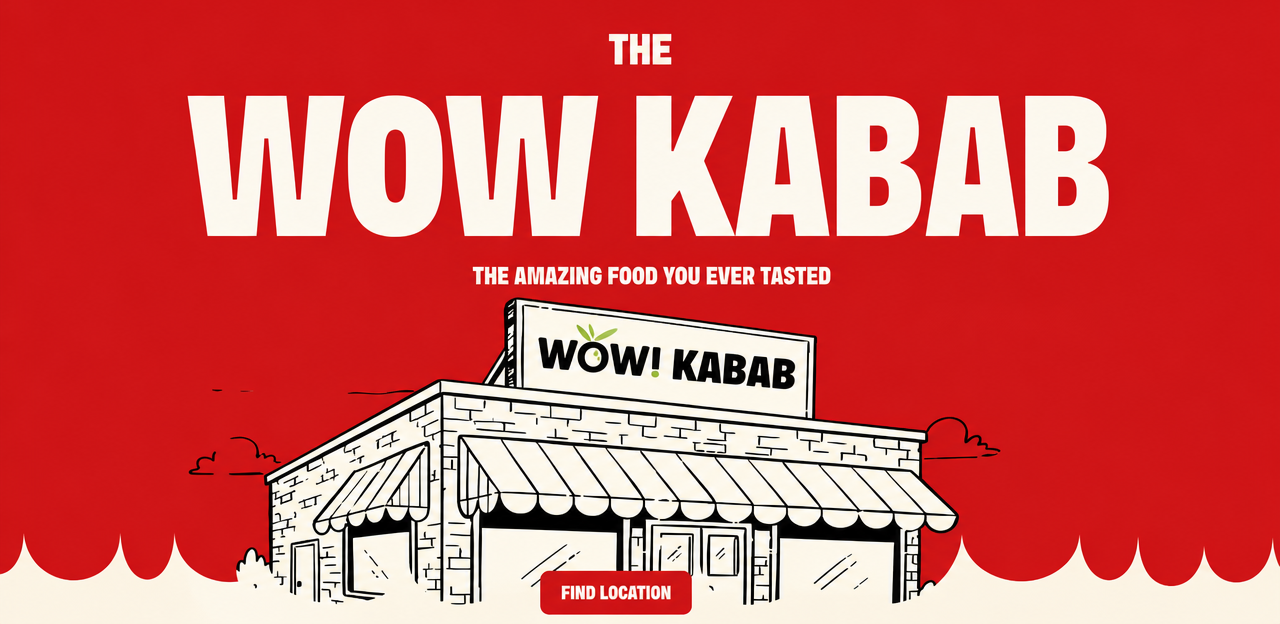
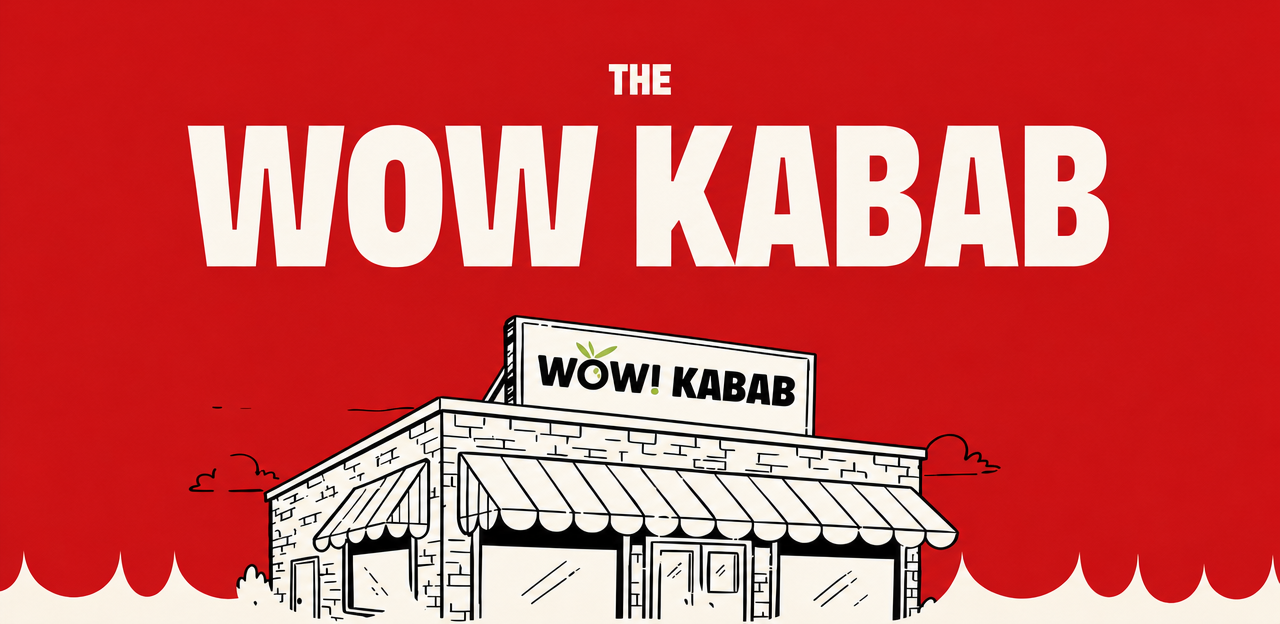
Update hero artwork, remove overlay button, resample palette to #CB1214
Hero overlay replaced with a real .hero-cta row below the artwork holding
two <a> buttons: "Find location" (#visit) and "See the menu" (menu.html).
btn-overlay is gone from both CSS and markup. hero.png updated.

Palette resampled from the artwork: --red #CB1214, --red-deep #A00E10,
--cream #FBF4E3, --ink #231F20, plus --lime #A7C23D for the logo mark.

Gate: btn-overlay absent; both hero CTA buttons present as real anchors;
--red is #CB1214; all four images resolve; html lang="en"; skip link to
#main; exactly one h1; no outline:none; :focus-visible styled;
prefers-reduced-motion honored; 3 <button> / 15 <a>; no clickable divs;
no positive tabindex; heading order 1,2,2,2,2,2,2; no training files.

Contrast: 32/33 pass. Lime footer links on ink measure 8.09:1, well clear
of 4.5:1. Unchanged known exception: gold review stars on the green card
at 3.58:1 (clears the 3:1 non-text bar, carries an sr-only "Five stars");
those cards still hold review placeholders pending real content.

Claude-Session: https://claude.ai/code/session_017wNrC86s75EqXBG6suyaN6

Changed region(s): [[0.0, 0.0304, 1.0, 1.0]]

diff --git a/index.html b/index.html
@@ -7,20 +7,21 @@
 <meta name="description" content="Beef shawarma, kabobs, falafel and Mediterranean fare in Masi Plaza, Rancho Cucamonga. Vegan options and kids' menu. Call (909) 481-9099.">
 <link rel="preconnect" href="https://fonts.googleapis.com">
 <link rel="preconnect" href="https://fonts.gstatic.com" crossorigin>
-<link href="https://fonts.googleapis.com/css2?family=Titan+One&family=Archivo:wght@400;600;800&display=swap" rel="stylesheet">
+<link href="https://fonts.googleapis.com/css2?family=Titan+One&family=Baloo+2:wght@800&family=Archivo:wght@400;600;800&display=swap" rel="stylesheet">
 <style>
 :root{
-  --red:#B3271E;
-  --red-deep:#8f1f17;
-  --green:#186A34;
+  --red:#CB1214;        /* sampled from hero art */
+  --red-deep:#A00E10;
+  --green:#186A34;      /* dark green for text/buttons (contrast-safe) */
   --green-deep:#0F4D24;
-  --cream:#FBF3E4;
-  --ink:#141210;
+  --lime:#A7C23D;       /* sampled logo green — decorative + on dark only */
+  --cream:#FBF4E3;      /* sampled from hero art */
+  --ink:#231F20;        /* sampled from logo background */
   --white:#FFFFFF;
 }
 *{margin:0;padding:0;box-sizing:border-box}
 html{scroll-behavior:smooth;scroll-padding-top:6rem}
-body{font-family:'Archivo',system-ui,sans-serif;background:var(--cream);color:var(--ink);line-height:1.6}
+body{font-family:'Archivo',system-ui,sans-serif;background:var(--cream);color:var(--ink);line-height:1.6;overflow-x:clip}
 @media (prefers-reduced-motion: reduce){
   html{scroll-behavior:auto}
   *,*::before,*::after{animation:none !important;transition:none !important}
@@ -38,29 +39,37 @@ body.motion-paused *{animation-play-state:paused !important}
 
 /* ---------- pill nav ---------- */
 .site-header{
-  position:sticky;top:.75rem;z-index:50;
-  max-width:1180px;margin:.75rem auto 0;
+  position:sticky;top:.6rem;z-index:50;
+  max-width:1180px;width:calc(100% - 1.2rem);margin:.6rem auto 0;
   background:var(--ink);color:var(--white);
-  border-radius:999px;padding:.7rem 1.4rem;
-  display:flex;align-items:center;justify-content:space-between;gap:1rem;
+  border-radius:999px;padding:.55rem 1.1rem;
+  display:flex;align-items:center;justify-content:space-between;gap:.75rem;
 }
-.brand{font-family:'Titan One',sans-serif;font-size:1.25rem;text-transform:uppercase;color:var(--white);text-decoration:none;letter-spacing:.03em}
-.brand .bang{color:#7BC96A}
-.site-nav ul{list-style:none;display:flex;gap:.4rem;flex-wrap:wrap}
+.brand{display:flex;align-items:center;text-decoration:none;flex-shrink:1;min-width:0}
+.brand svg{height:30px;width:auto;display:block}
+.site-nav ul{list-style:none;display:flex;gap:.35rem;flex-wrap:wrap}
 .site-nav a{
   color:var(--white);text-decoration:none;font-weight:800;text-transform:uppercase;
   font-size:.78rem;letter-spacing:.1em;padding:.55rem 1rem;border-radius:999px;border:2px solid transparent;
 }
-.site-nav a:hover{border-color:#7BC96A}
+.site-nav a:hover{border-color:var(--lime)}
 .site-nav a[aria-current="page"]{background:var(--cream);color:var(--ink)}
+@media (max-width:560px){
+  .site-header{padding:.5rem .8rem;top:.4rem}
+  .brand svg{height:22px}
+  .site-nav a{font-size:.65rem;padding:.45rem .65rem;letter-spacing:.05em}
+}
 
 /* ---------- hero (user's artwork + real overlaid control) ---------- */
-.hero{background:var(--red);position:relative;margin-top:-4.1rem;padding-top:4.1rem}
+.hero{background:var(--red);position:relative;margin-top:-4.2rem;padding-top:5rem}
 .hero-frame{position:relative;max-width:1280px;margin:0 auto}
 .hero-frame img{display:block;width:100%;height:auto}
-.hero-frame .btn-overlay{
-  position:absolute;left:50%;transform:translateX(-50%);
-  bottom:2.5%;
+/* CTA row sits on the cream band the artwork's scallops fade into */
+.hero-cta{
+  background:var(--cream);
+  display:flex;gap:1rem;justify-content:center;flex-wrap:wrap;
+  padding:.5rem 1rem 0;
+  margin-top:-2px;
 }
 .btn{
   display:inline-block;font-weight:800;text-transform:uppercase;letter-spacing:.08em;
@@ -68,7 +77,6 @@ body.motion-paused *{animation-play-state:paused !important}
   border:3px solid var(--ink);box-shadow:4px 4px 0 var(--ink);
 }
 .btn:active{transform:translate(2px,2px);box-shadow:2px 2px 0 var(--ink)}
-.btn-overlay .btn{transform:none}
 .btn-red{background:var(--red);color:var(--white)}
 .btn-red:hover{background:var(--red-deep)}
 .btn-green{background:var(--green);color:var(--white)}
@@ -80,12 +88,12 @@ body.motion-paused *{animation-play-state:paused !important}
 .ticker-track{display:inline-block;animation:tickerScroll 26s linear infinite}
 .ticker:hover .ticker-track{animation-play-state:paused}
 @keyframes tickerScroll{0%{transform:translateX(0)}100%{transform:translateX(-50%)}}
-.ticker .chunk{font-size:clamp(1.3rem,3.2vw,2rem);color:var(--ink)}
 .ticker .sep{color:var(--green);margin:0 1.1rem}
 .ticker-ink{background:var(--ink)}
 .ticker-ink .chunk{color:var(--cream)}
-.ticker-ink .sep{color:#7BC96A}
-.ticker-ink.tilt{transform:rotate(-1.4deg);margin:2.5rem -1rem}
+.ticker-ink .sep{color:var(--lime)}
+.ticker-ink.tilt{transform:rotate(-1.4deg);margin:2.5rem 0}
+.ticker .chunk{font-size:clamp(1.05rem,3.2vw,2rem);color:var(--ink)}
 .pause-motion{
   position:fixed;bottom:1rem;right:1rem;z-index:60;
   background:var(--ink);color:var(--white);border:2px solid var(--cream);border-radius:999px;
@@ -175,10 +183,29 @@ body.motion-paused *{animation-play-state:paused !important}
 
 /* ---------- footer ---------- */
 .site-footer{background:var(--ink);color:var(--cream);text-align:center;padding:2.2rem 1rem;margin-top:2rem}
-.site-footer a{color:#7BC96A;font-weight:600}
+.site-footer a{color:var(--lime);font-weight:600}
 .site-footer nav ul{list-style:none;display:flex;gap:1.4rem;justify-content:center;margin-bottom:1rem;flex-wrap:wrap}
 .site-footer nav a{color:var(--cream);font-weight:800;text-transform:uppercase;font-size:.8rem;letter-spacing:.1em;text-decoration:none}
-.site-footer nav a:hover{color:#7BC96A}
+.site-footer nav a:hover{color:var(--lime)}
+
+/* ---------- mobile breathing room ---------- */
+@media (max-width:600px){
+  .cols{padding:0 1.1rem;gap:1rem}
+  .slider-sec{padding:2.75rem 0 1.5rem}
+  .slide{flex:0 0 82vw}
+  .slide img{height:200px}
+  .slider-btns button{width:44px;height:44px}
+  .circle-sec{padding:2.5rem 0 3.5rem}
+  .sticker{font-size:.62rem;padding:.3rem .6rem;box-shadow:2px 2px 0 var(--ink)}
+  .stickers .sticker:nth-child(1){left:0}
+  .stickers .sticker:nth-child(2){right:0}
+  .stickers .sticker:nth-child(3){left:0}
+  .stickers .sticker:nth-child(4){right:0}
+  .visit .cta-row{flex-direction:column;align-items:center}
+  .visit .cta-row .btn{width:100%;max-width:320px;text-align:center}
+  .ticker{padding:.7rem 0}
+  .pause-motion{font-size:.68rem;padding:.5rem .8rem}
+}
 </style>
 </head>
 <body>
@@ -186,7 +213,23 @@ body.motion-paused *{animation-play-state:paused !important}
 <a class="skip-link" href="#main">Skip to main content</a>
 
 <header class="site-header">
-  <a class="brand" href="index.html">Wow<span class="bang">!</span> Kabab</a>
+  <a class="brand" href="index.html" aria-label="Wow! Kabab — home">
+    <!-- logo recreation: rounded wordmark, olive O with leaves, green exclamation -->
+    <svg viewBox="0 0 316 64" aria-hidden="true" focusable="false">
+      <g font-family="'Baloo 2','Titan One',sans-serif" font-weight="800" font-size="46" fill="#FFFFFF">
+        <text x="0" y="47">W</text>
+        <text x="80" y="47">W</text>
+        <text x="124" y="47" fill="#A7C23D">!</text>
+        <text x="148" y="47" letter-spacing="1">KABAB</text>
+      </g>
+      <!-- olive O -->
+      <circle cx="60" cy="31" r="13" fill="none" stroke="#FFFFFF" stroke-width="9"/>
+      <circle cx="60" cy="31" r="3.2" fill="#FFFFFF"/>
+      <!-- leaves -->
+      <path d="M56 13c-9-1-13-8-11-14c8 0 12 7 11 14z" fill="#A7C23D"/>
+      <path d="M63 12c0-9 7-14 13-12c1 8-6 13-13 12z" fill="#A7C23D"/>
+    </svg>
+  </a>
   <nav class="site-nav" aria-label="Main">
     <ul>
       <li><a href="index.html" aria-current="page">Home</a></li>
@@ -199,18 +242,19 @@ body.motion-paused *{animation-play-state:paused !important}
 <main id="main">
   <h1 class="sr-only">Wow Kabab — shawarma, kabobs and falafel in Rancho Cucamonga</h1>
 
-  <!-- HERO: user's artwork, real button overlaid on the painted one -->
+  <!-- HERO: user's artwork (no baked-in controls in this version) -->
   <section class="hero" aria-label="Welcome">
     <div class="hero-frame">
-      <img src="images/hero.png" alt="The Wow Kabab — the amazing food you ever tasted. Hand-drawn storefront of the Wow Kabab restaurant with a striped awning.">
-      <div class="btn-overlay">
-        <a class="btn btn-red" href="#visit">Find location</a>
-      </div>
+      <img src="images/hero.png" alt="The Wow Kabab. Hand-drawn storefront of the Wow Kabab restaurant with striped awnings and the olive-leaf logo on its sign.">
+    </div>
+    <div class="hero-cta">
+      <a class="btn btn-cream" href="#visit">Find location</a>
+      <a class="btn btn-green" href="menu.html">See the menu</a>
     </div>
   </section>
 
   <!-- BIG TICKER -->
-  <div class="ticker" aria-hidden="true">
+  <div class="ticker" style="margin-top:1.5rem" aria-hidden="true">
     <div class="ticker-track">
       <span class="chunk">Crave, the Wow way <span class="sep">✺</span> Get ready to crave <span class="sep">✺</span> Crave, the Wow way <span class="sep">✺</span> Get ready to crave <span class="sep">✺</span> Crave, the Wow way <span class="sep">✺</span> Get ready to crave <span class="sep">✺</span> </span>
     </div>
